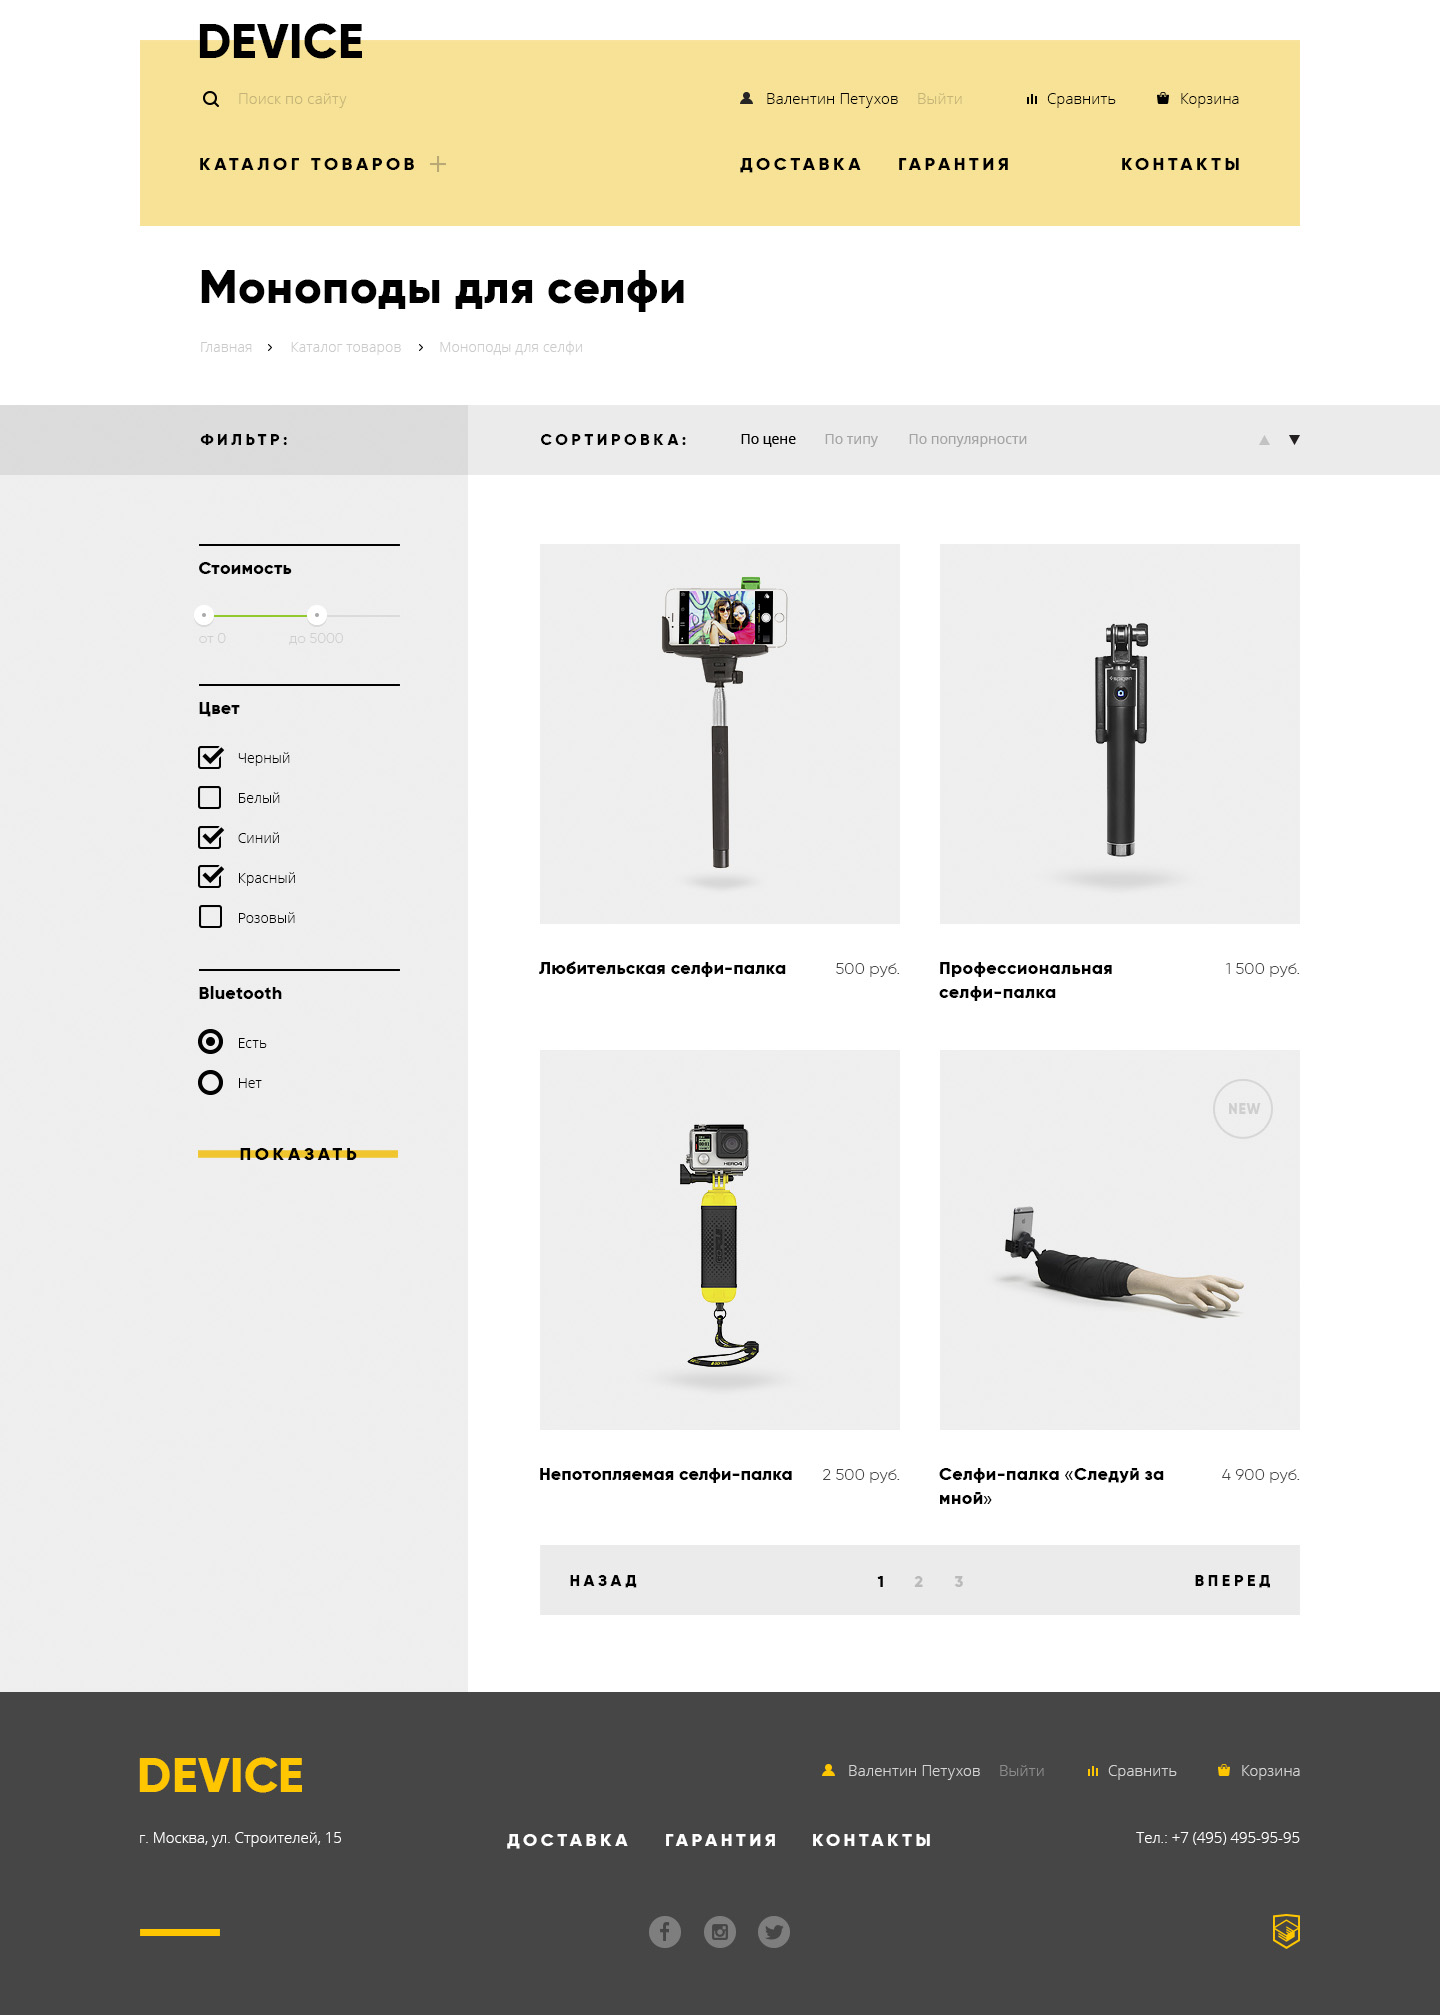
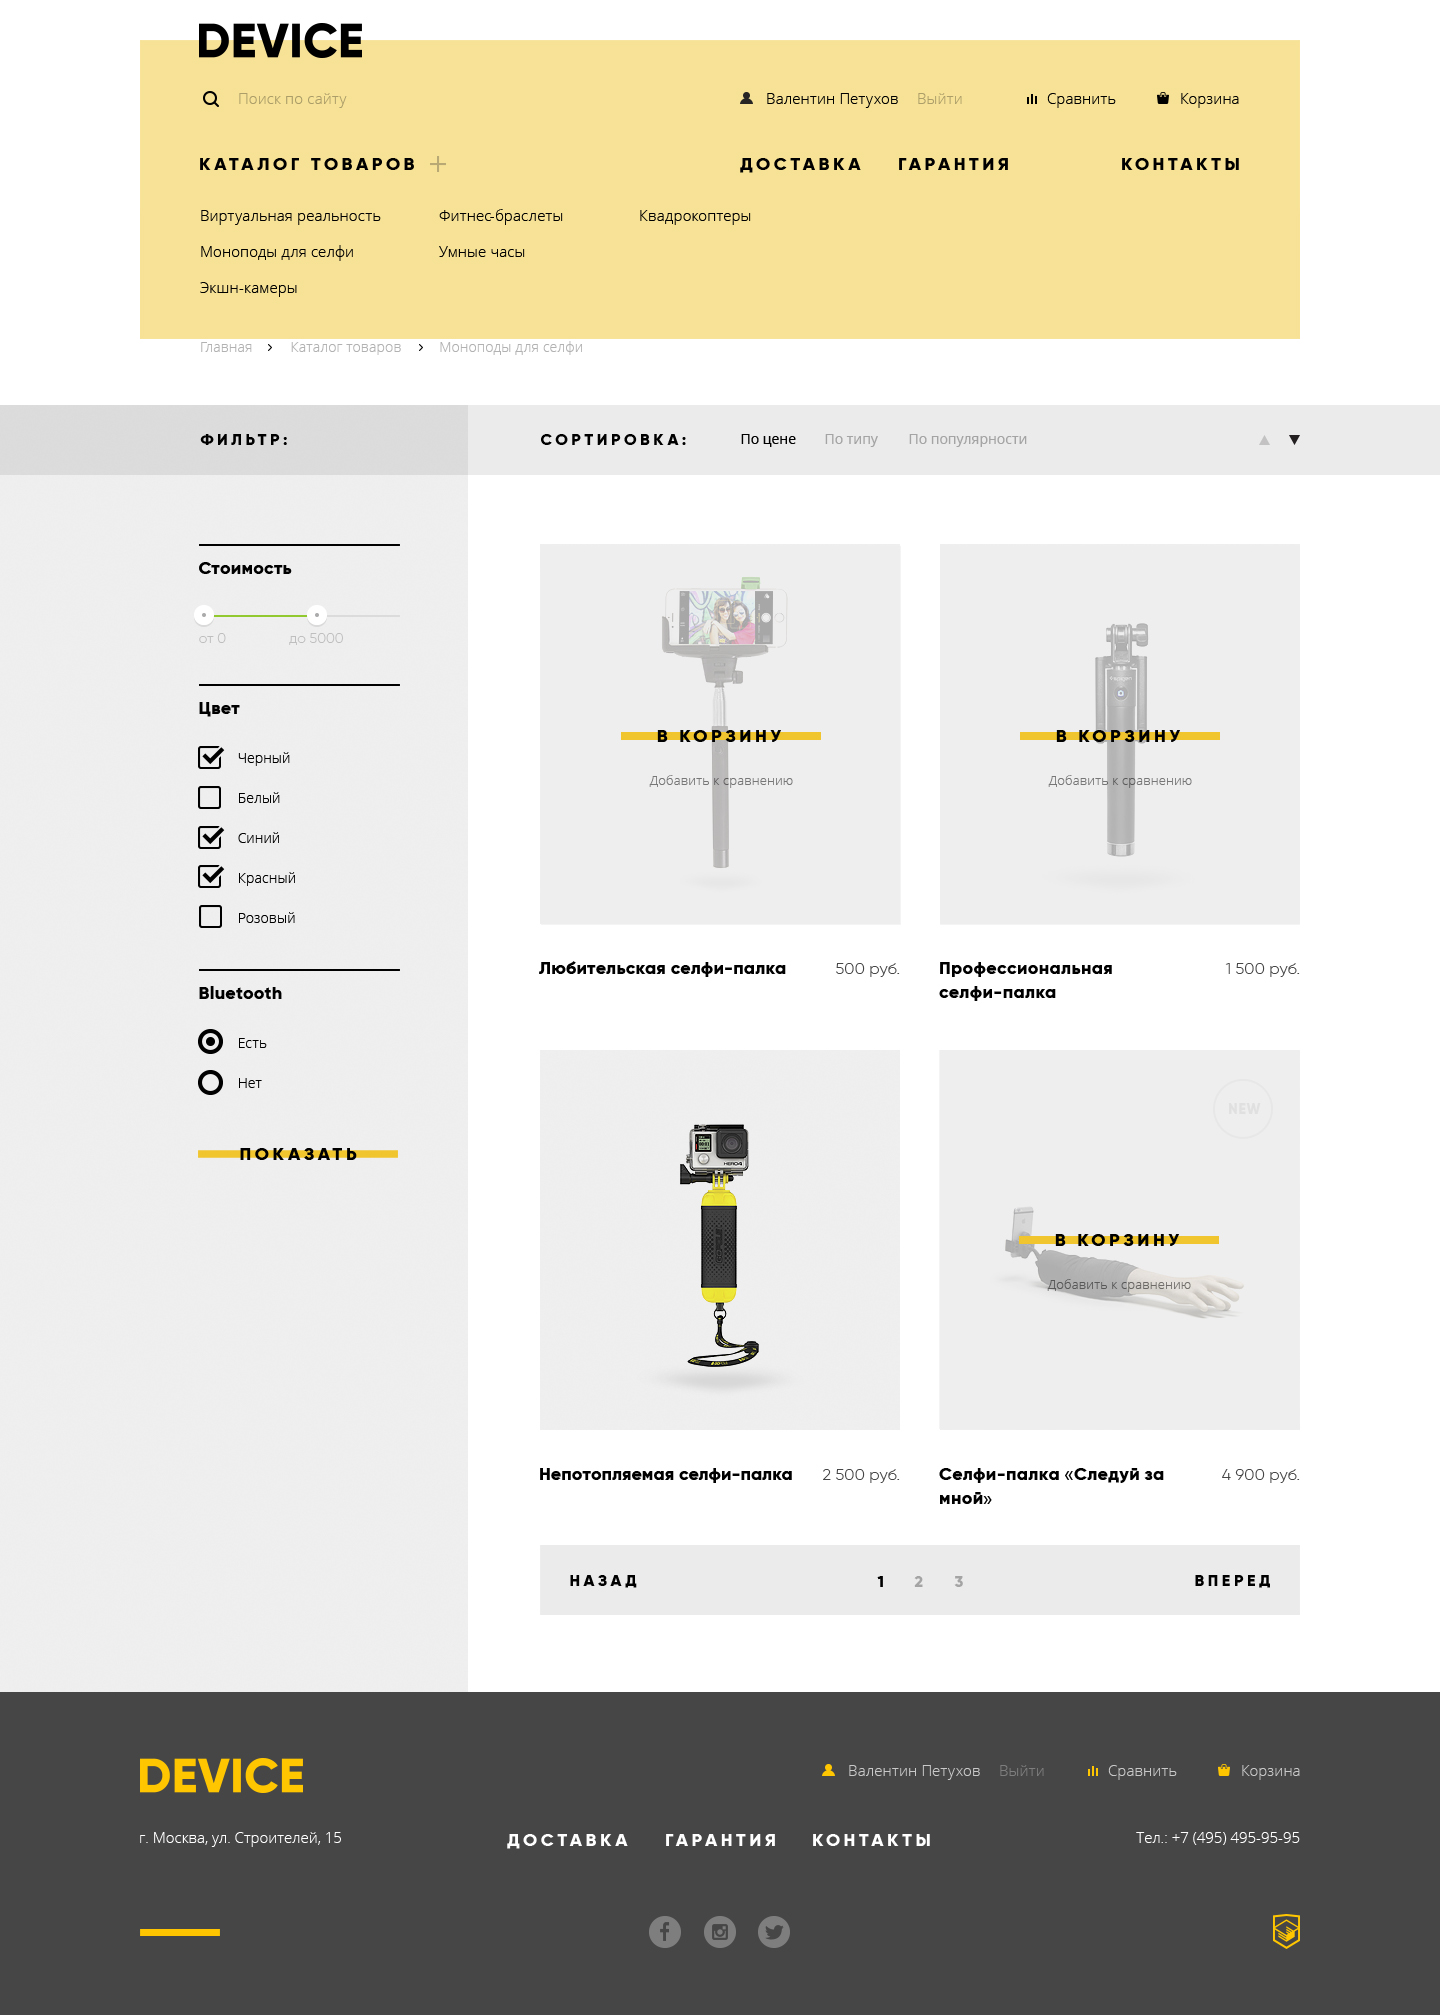
Maked catalog item hover, and range

diff --git a/css/style.css b/css/style.css
@@ -1382,17 +1382,20 @@ active устанавливается JS на активные варианты 
 
 .filter {
   margin: 0;
-  margin-left: 59px;
+  margin-left: 54px;
   padding: 0;
   padding-top: 82px;
   width: 210px;
 }
 
+.range-filter {
+  width: 215px;
+}
+
 .range-controls {
   position: relative;
-  height: 41px;
-  margin-bottom: 15px;
-  padding-top: 20px;
+  height: 23px;
+  padding: 20px 10px 0;
 }
 
 .range-controls .scale {
@@ -1402,19 +1405,18 @@ active устанавливается JS на активные варианты 
 }
 
 .range-controls .bar {
-  width: 70%;
+  width: 110px;
   height: 2px;
 
-  background: #00ca74;
+  background: #91c92f;
 }
 
 .range-controls .toggle {
   position: absolute;
-  top: 31px;
-  left: 0;
   width: 4px;
   height: 4px;
-  padding: 0;
+  padding: 2px;
+  top: 10px;
 
   border: 8px solid #ffffff;
   background-color: #ababab;
@@ -1425,37 +1427,28 @@ active устанавливается JS на активные варианты 
 }
 
 .range-controls .toggle-min {
-  left: 18px;
+  left: 0px;
 }
 
 .range-controls .toggle-max {
-  left: 160px;
+  left: 113px;
 }
 
 .price-controls {
-  font-size: 0;
+  margin-left: 5px;
 }
 
 .price-controls label {
-  display: inline-block;
   width: 50%;
 
-  font-size: 16px;
-  text-transform: uppercase;
-}
-
-.range-filter {
-  width: 195px;
+  opacity: 0.2;
 }
 
 .price-controls input {
-  width: 60px;
-  margin-left: 10px;
-  padding: 8px 10px;
+  width: 68px;
 
   border: none;
-  border-radius: 5px;
-  background: #f1f1f1;
+  background: none;
 }
 
 .max-price {
@@ -1470,7 +1463,7 @@ active устанавливается JS на активные варианты 
 }
 
 .filter legend {
-  margin-bottom: 15px;
+  margin-left: 5px;
 
   font-family: "Gilroy", "Arial Black", sans-serif;
   font-size: 18px;
@@ -1485,12 +1478,31 @@ active устанавливается JS на активные варианты 
   color: #000000;
 }
 
+.filter .field-cost {
+  margin-bottom: 38px;
+}
+
+.field-cost legend {
+  margin-bottom: 15px;
+}
+
 .filter-input:disabled + label {
   color: #a6a6a6;
 }
 
+.field-color legend {
+  margin-bottom: 15px;
+}
+
 .filter-color {
+  padding: 0;
+  margin: 0;
+
   list-style: none;
+}
+
+.filter-color input[type="checkbox"] {
+  /*display: none;*/
 }
 
 .filter-bluetooth {
@@ -1553,17 +1565,28 @@ active устанавливается JS на активные варианты 
   padding: 0;
 }
 
-.catalog-item:hover .item-buttons {
-  display: block;
-}
-
 .item-buttons {
   display: none;
   position: absolute;
-  top: 50%;
-  left: 50%;
+  top: 0;
+  left: 0;
+  z-index: 1;
 
-  transform: translate(-50%, -50%);
+  width: 360px;
+  height: 385px;
+  padding-top: 171px;
+  padding-left: 81px;
+
+  background-color: rgba(238, 238, 238, 0.7);
+}
+
+.item-buttons .button {
+  width: 200px;
+  margin-bottom: 12px;
+}
+
+.catalog-item:hover .item-buttons {
+  display: block;
 }
 
 .item-buttons a {
@@ -1571,6 +1594,8 @@ active устанавливается JS на активные варианты 
 }
 
 .add-comparison {
+  margin-left: 30px;
+
   font-family: "Open Sans", "Trebuchet MS", sans-serif;
   font-size: 13px;
   line-height: 20px;
@@ -1626,14 +1651,6 @@ active устанавливается JS на активные варианты 
 .pagination-button a {
   opacity: 1;
 }
-
-/*
-html,
-body {
-  min-width: 1440px;
-  min-height: 2795px;
-}
-*/
 
 .hidden {
   display: none;

diff --git a/catalog.html b/catalog.html
@@ -126,7 +126,7 @@
         <div class="catalog-columns container">
           <section class="filter">
             <form action="https://echo.htmlacademy.ru" method="get">
-              <fieldset>
+              <fieldset class="field-cost">
                 <legend>Стоимость</legend>
                 <div class="range-filter">
                   <div class="range-controls">
@@ -138,11 +138,11 @@
                   </div>
                   <div class="price-controls">
                     <label class="min-price">от <input name="min-price" type="text" value="0"></label>
-                    <label class="max-price">до <input name="max-price" type="text" value="15000"></label>
+                    <label class="max-price">до <input name="max-price" type="text" value="5000"></label>
                   </div>
                 </div>
               </fieldset>
-              <fieldset>
+              <fieldset class="field-color">
                 <legend>Цвет</legend>
                 <ul class="filter-color">
                   <li>
